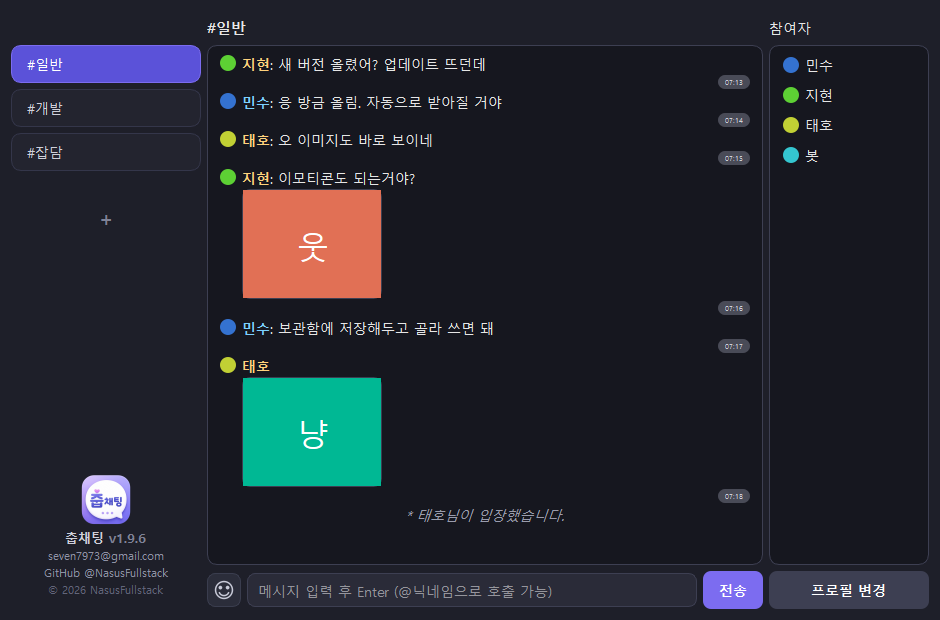
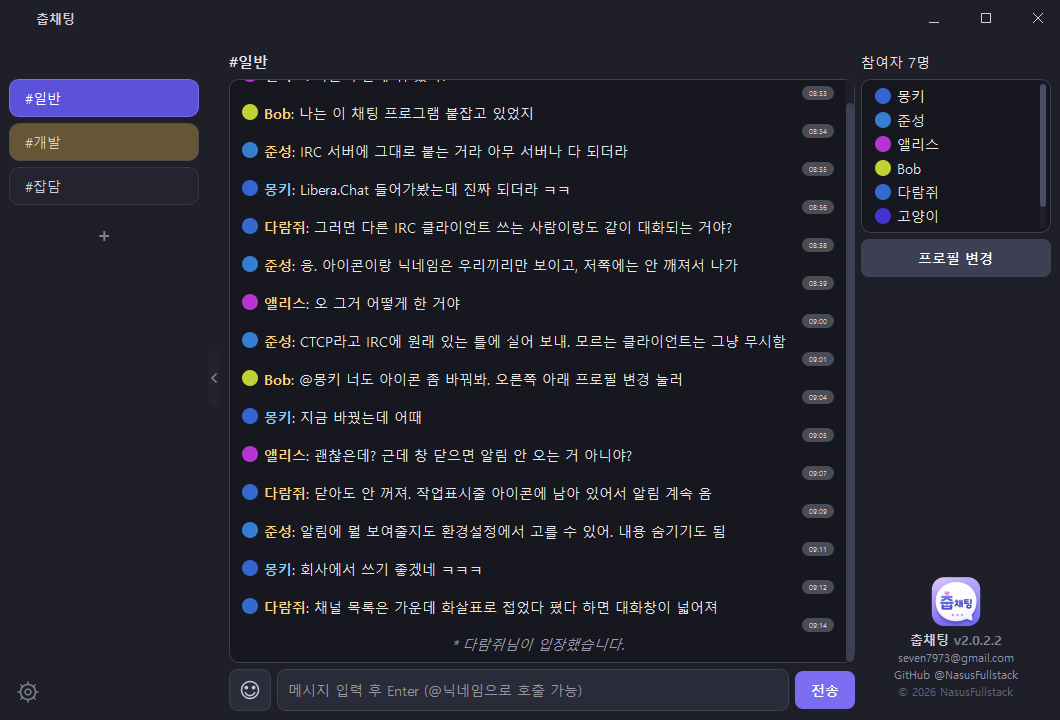
v2.0.2.2: 참여자 목록 여섯 번째 줄 잘림 수정 + 스크린샷 갱신
- 참여자 목록 높이를 '줄 높이 x 6'으로만 잡아서 여섯 번째 사람이 반쯤 잘려 보였다.
  목록 위젯의 테두리와 스타일시트 여백이 10px을 먹는데 그걸 안 뺐다. 그 값은 화면에
  뜨고 스타일이 적용된 뒤에야 알 수 있어서, showEvent에서 실측해 맞춘다(_fit_rows).
  테스트도 '높이가 얼마인가'가 아니라 '실제로 몇 줄이 보이는가'를 재도록 바꿨다.
- README 스크린샷을 지금 화면으로 새로 찍음(손잡이/톱니바퀴/안읽음 노란색/참여자
  인원수/만든이 위치가 전부 예전 그림이었음)
- 다시 찍을 수 있게 docs/make_screenshot.py로 남김. 오프스크린으로 찍으면 한글이
  네모로 나오므로 실제 창을 띄워야 한다는 것과, 안읽음 노란색은 깜빡이는 중이라
  고정해두고 찍어야 한다는 것을 파일에 적어둠

검증: 테스트 49개 전부 통과, 스크린샷으로 여섯 줄이 온전히 보이는 것 확인

diff --git a/docs/make_screenshot.py b/docs/make_screenshot.py
@@ -1,0 +1,70 @@
+"""README에 넣을 스크린샷을 찍는다 - docs/screenshot.png.
+
+실행: python docs/make_screenshot.py (저장소 루트에서)
+
+**오프스크린(QT_QPA_PLATFORM=offscreen)으로 찍으면 안 된다** - 한글이 전부 네모로 나온다.
+실제 창을 띄워야 하므로 화면에 창이 잠깐 떴다 사라진다.
+
+내용은 진짜 대화가 아니라 여기서 만들어 넣는다(개인 대화 기록이 새어나가면 안 되고,
+화면에 무엇이 보일지도 매번 같아야 하므로). 안읽음 노란색은 깜빡이는 중이면 찍는 순간에
+따라 색이 없을 수 있어서, 다 깜빡인 뒤 유지되는 상태로 고정해두고 찍는다.
+"""
+import os
+import sys
+import time
+
+from PySide6.QtWidgets import QApplication
+
+sys.path.insert(0, os.path.dirname(os.path.dirname(os.path.abspath(__file__))))
+
+app = QApplication([])
+import gui_client as g
+
+app.setStyleSheet(g.STYLE_SHEET)
+win = g.MainWindow()
+page = win.chat_page
+win.stack.setCurrentWidget(page)   # 크기 정책이 화면 전환 때 적용되므로 크기는 그 뒤에 정함
+win.show()
+win.resize(1060, 720)
+
+page.my_id = "몽키"
+for ch in ("#일반", "#개발", "#잡담"):
+    page.add_channel(ch)
+page.member_panel.set_members("#일반", ["몽키", "hjsong", "앨리스", "Bob", "다람쥐", "고양이", "너구리"])
+page.member_panel.set_nickname("hjsong", "준성")
+page.member_panel.show_channel("#일반")
+
+now = time.time()
+talk = [
+    ("앨리스", "다들 주말에 뭐 했어?", False, 1400),
+    ("Bob", "나는 이 채팅 프로그램 붙잡고 있었지", False, 1330),
+    ("hjsong", "IRC 서버에 그대로 붙는 거라 아무 서버나 다 되더라", False, 1250),
+    ("몽키", "Libera.Chat 들어가봤는데 진짜 되더라 ㅋㅋ", True, 1180),
+    ("다람쥐", "그러면 다른 IRC 클라이언트 쓰는 사람이랑도 같이 대화되는 거야?", False, 1090),
+    ("hjsong", "응. 아이콘이랑 닉네임은 우리끼리만 보이고, 저쪽에는 안 깨져서 나가", False, 1010),
+    ("앨리스", "오 그거 어떻게 한 거야", False, 950),
+    ("hjsong", "CTCP라고 IRC에 원래 있는 틀에 실어 보내. 모르는 클라이언트는 그냥 무시함", False, 880),
+    ("Bob", "@몽키 너도 아이콘 좀 바꿔봐. 오른쪽 아래 프로필 변경 눌러", False, 700),
+    ("몽키", "지금 바꿨는데 어때", True, 640),
+    ("앨리스", "괜찮은데? 근데 창 닫으면 알림 안 오는 거 아니야?", False, 520),
+    ("다람쥐", "닫아도 안 꺼져. 작업표시줄 아이콘에 남아 있어서 알림 계속 옴", False, 430),
+    ("hjsong", "알림에 뭘 보여줄지도 환경설정에서 고를 수 있어. 내용 숨기기도 됨", False, 330),
+    ("몽키", "회사에서 쓰기 좋겠네 ㅋㅋㅋ", True, 240),
+    ("다람쥐", "채널 목록은 가운데 화살표로 접었다 폈다 하면 대화창이 넓어져", False, 120),
+]
+for sender, text, mine, ago in talk:
+    page.append_message("#일반", sender, text, mine, now - ago)
+page.append_system("#일반", "다람쥐님이 입장했습니다.")
+page.channel_sidebar.set_active("#일반")
+# 안읽음 노란색 - 깜빡이는 중이면 찍는 순간에 따라 색이 없을 수 있어서,
+# 다 깜빡인 뒤 유지되는 상태(실제로 가장 오래 보이는 모습)로 고정한다
+page.channel_sidebar.mark_unread("#개발")
+page.channel_sidebar._kill_timer("#개발")
+from gui.theme import UNREAD_TINT_ALPHA_IDLE
+page.channel_sidebar._tint.set_alpha("#개발", UNREAD_TINT_ALPHA_IDLE)
+
+for _ in range(30):
+    app.processEvents()
+    time.sleep(0.02)
+win.grab().save(os.path.join(os.path.dirname(os.path.abspath(__file__)), "screenshot.png"))
+print("docs/screenshot.png 갱신 완료")

diff --git a/gui/components/member_panel.py b/gui/components/member_panel.py
@@ -40,7 +40,8 @@ class MemberPanel(QWidget):
         self.list.setIconSize(QSize(AVATAR_LIST_PX, AVATAR_LIST_PX))
         self.list.setHorizontalScrollBarPolicy(Qt.ScrollBarPolicy.ScrollBarAlwaysOff)
         # 창 끝까지 늘리지 않고 여섯 줄만 - 그 아래 프로필 버튼과 만든이 표시가 밀려나지
-        # 않게. 넘치는 사람은 얇은 스크롤바로 내려서 본다
+        # 않게. 넘치는 사람은 얇은 스크롤바로 내려서 본다.
+        # 여기서는 대략의 값만 주고, 화면에 뜬 뒤 _fit_rows()가 정확히 맞춘다
         self.list.setFixedHeight(MEMBER_ROW_HEIGHT * MEMBER_VISIBLE_ROWS + 2)
         column.addWidget(self.list, 0)
 
@@ -56,6 +57,22 @@ class MemberPanel(QWidget):
             pixmap = _decode_avatar_pixmap(avatar_b64)
             if pixmap is not None:
                 self._avatars[user_id] = pixmap
+
+    def showEvent(self, event):
+        super().showEvent(event)
+        self._fit_rows()
+
+    def _fit_rows(self):
+        """딱 여섯 줄이 온전히 보이도록 높이를 맞춘다.
+
+        줄 높이 x 6으로만 잡으면 **여섯 번째 줄이 반쯤 잘린다** - 목록 위젯의 테두리와
+        스타일시트가 준 안쪽 여백이 그만큼 자리를 먹기 때문이다(실측: 10px). 그 값은
+        화면에 뜨고 스타일이 적용된 뒤에야 알 수 있어서 여기서 잰다.
+        """
+        chrome = self.list.height() - self.list.viewport().height()   # 테두리 + 여백
+        wanted = MEMBER_ROW_HEIGHT * MEMBER_VISIBLE_ROWS + chrome
+        if chrome > 0 and self.list.height() != wanted:
+            self.list.setFixedHeight(wanted)
 
     # ---------------- 목록 ----------------
 

diff --git a/tests/test_sidebar_footer.py b/tests/test_sidebar_footer.py
@@ -64,8 +64,11 @@ panel.set_members("#a", [f"user{i}" for i in range(9)])
 for _ in range(4):
     app.processEvents()
 checks.append((f"인원수가 갱신됨({panel.header.text()})", "9명" in panel.header.text()))
-checks.append((f"목록 높이가 {MEMBER_VISIBLE_ROWS}줄로 고정됨({panel.list.height()}px)",
-               panel.list.height() == MEMBER_ROW_HEIGHT * MEMBER_VISIBLE_ROWS + 2))
+# 높이만 보면 안 되고 '실제로 몇 줄이 보이는가'를 봐야 함(테두리/여백이 자리를 먹어서
+# 줄 높이 x 6으로 잡으면 여섯 번째 줄이 반쯤 잘렸음)
+visible_rows = panel.list.viewport().height() / MEMBER_ROW_HEIGHT
+checks.append((f"딱 {MEMBER_VISIBLE_ROWS}줄이 온전히 보임(보이는 줄 {visible_rows:.2f})",
+               abs(visible_rows - MEMBER_VISIBLE_ROWS) < 0.05))
 checks.append(("아홉 명이면 스크롤로 내려서 봄",
                panel.list.verticalScrollBar().maximum() > 0))
 checks.append(("스크롤바가 얇음(6px)", panel.list.verticalScrollBar().width() == 6))

diff --git a/version.py b/version.py
@@ -5,7 +5,7 @@
 태그를 푸시하면 GitHub Actions가 자동으로 exe를 빌드해 릴리즈에 올리고,
 updater.py는 그 릴리즈 태그와 이 값을 비교해서 새 버전인지 판단함.
 """
-APP_VERSION = "2.0.2.1"
+APP_VERSION = "2.0.2.2"
 
 # 이 버전을 릴리즈한 날. 환경설정 > 정보에 표시된다. 버전을 올릴 때 같이 고칠 것
 RELEASE_DATE = "2026-08-05"

diff --git a/CHANGELOG.md b/CHANGELOG.md
@@ -4,6 +4,10 @@
 
 ---
 
+## v2.0.2.2
+- 참여자 목록의 **여섯 번째 사람이 반쯤 잘려 보이던 것** 수정 (테두리와 여백이 차지하는 자리를 빼지 않아 실제로는 5.7줄만 보였습니다)
+- README 화면 사진을 지금 모습으로 새로 찍었습니다
+
 ## v2.0.2.1
 - 트레이 아이콘 우클릭 메뉴의 '환경설정...'에서 점 세 개를 뺐습니다(`환경설정`)
 - README를 지금 화면에 맞게 갱신했습니다(트레이 상주·알림 범위 선택·채널 목록 접기·참여자 목록·이모티콘 이름 표시)
